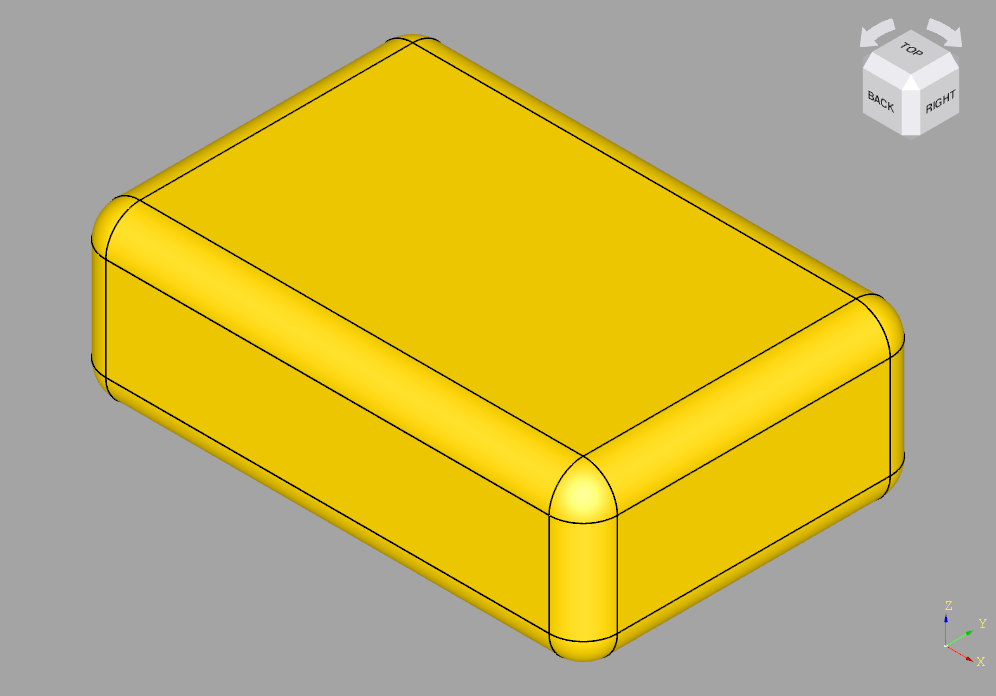
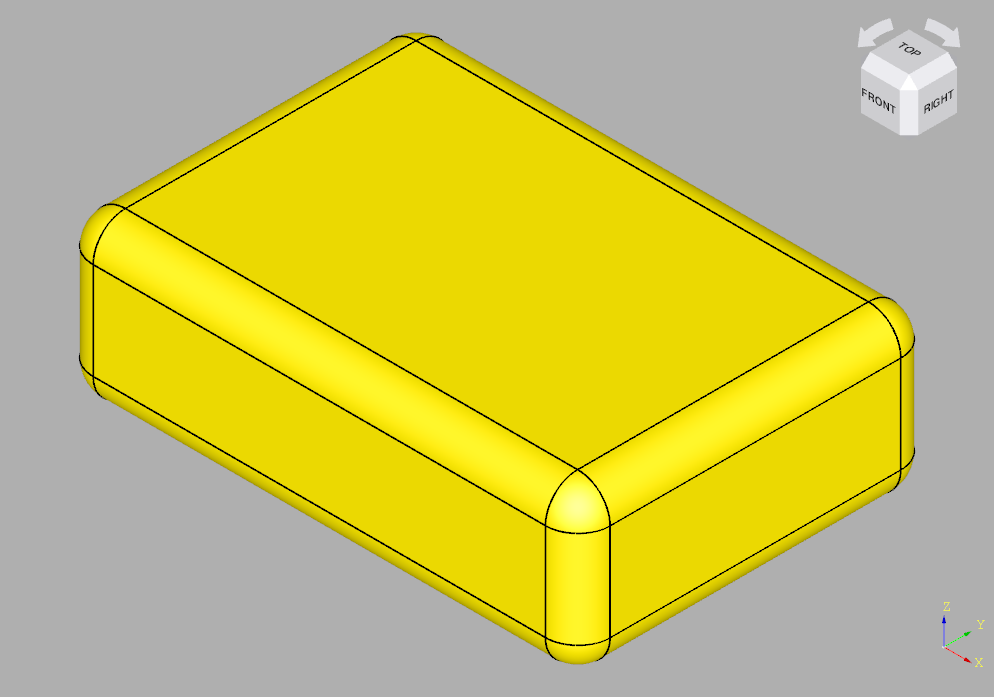
Follow FreeCAD's front/back convention
Label the cube's -Y face FRONT (OCCT's default) and flip the toolbar's
Front/Back actions to match, so the default Iso view faces FRONT.

diff --git a/cq_editor/widgets/navigation_cube.py b/cq_editor/widgets/navigation_cube.py
@@ -16,8 +16,6 @@ from OCP.Graphic3d import (
 )
 from OCP.Font import Font_FontAspect
 from OCP.Quantity import Quantity_Color, Quantity_TOC_RGB
-from OCP.TCollection import TCollection_AsciiString
-from OCP.V3d import V3d_TypeOfOrientation
 
 CORNER_OFFSET = 85
 SIZE = 55
@@ -73,15 +71,6 @@ class NavigationCube(AIS_ViewCube):
         self.SetBoxColor(Quantity_Color(0.72, 0.72, 0.75, Quantity_TOC_RGB))
         self.SetTextColor(Quantity_Color(0.0, 0.0, 0.0, Quantity_TOC_RGB))
         self.SetDrawAxes(False)
-
-        # OCCT labels FRONT on the -Y face; CQ-editor's toolbar Front action
-        # looks from +Y, so swap the two labels to keep them consistent
-        self.SetBoxSideLabel(
-            V3d_TypeOfOrientation.V3d_Ypos, TCollection_AsciiString("FRONT")
-        )
-        self.SetBoxSideLabel(
-            V3d_TypeOfOrientation.V3d_Yneg, TCollection_AsciiString("BACK")
-        )
 
         self.SetDuration(ANIMATION_DURATION)
         self.SetAutoStartAnimation(True)

diff --git a/tests/test_navigation_cube.py b/tests/test_navigation_cube.py
@@ -31,12 +31,13 @@ def test_hit_region():
 
 def test_cube_front_matches_toolbar_front():
 
-    # the toolbar's Front action looks from +Y (OCCViewer.front_view uses
-    # SetProj(0, 1, 0)), so the cube face seen from +Y must be labeled FRONT
+    # FreeCAD convention: the toolbar's Front action looks from -Y
+    # (OCCViewer.front_view uses SetProj(0, -1, 0)), so the cube face seen
+    # from -Y must be labeled FRONT
     cube = NavigationCube()
 
-    assert cube.BoxSideLabel(V3d_TypeOfOrientation.V3d_Ypos).ToCString() == "FRONT"
-    assert cube.BoxSideLabel(V3d_TypeOfOrientation.V3d_Yneg).ToCString() == "BACK"
+    assert cube.BoxSideLabel(V3d_TypeOfOrientation.V3d_Yneg).ToCString() == "FRONT"
+    assert cube.BoxSideLabel(V3d_TypeOfOrientation.V3d_Ypos).ToCString() == "BACK"
 
 
 @pytest.fixture

diff --git a/cq_editor/widgets/viewer.py b/cq_editor/widgets/viewer.py
@@ -404,13 +404,13 @@ class OCCViewer(QWidget, ComponentMixin):
     def front_view(self):
 
         v = self._get_view()
-        v.SetProj(0, 1, 0)
+        v.SetProj(0, -1, 0)
         v.SetTwist(0)
 
     def back_view(self):
 
         v = self._get_view()
-        v.SetProj(0, -1, 0)
+        v.SetProj(0, 1, 0)
         v.SetTwist(0)
 
     def left_view(self):
